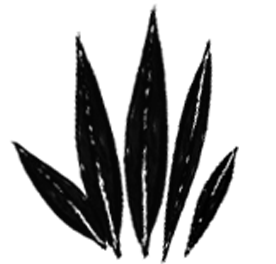
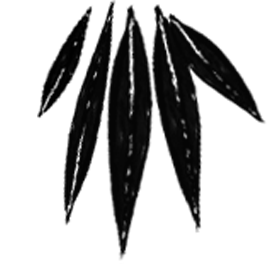
flip grass and fix culling

diff --git a/main.js b/main.js
@@ -33,38 +33,26 @@ const TreeoverlayTexture = textureLoader.load("https://raw.githubusercontent.com
 // GLTF Loader
 const gltfLoader = new GLTFLoader();
 
+// Load and add grass model
 gltfLoader.load("https://raw.githubusercontent.com/MyelinLennox/GDWebsite/refs/heads/main/Objects/Grass.gltf", (gltf) => {
     const grass = gltf.scene;
     scene.add(grass);
 
-    // Traverse the grass object and modify UVs
+    // Apply texture to the Grass object (assuming it has a mesh with materials)
     grass.traverse((child) => {
         if (child.isMesh) {
-            const geometry = child.geometry;
-
-            // Flip the Y component of the UVs
-            if (geometry.attributes.uv) {
-                const uvs = geometry.attributes.uv.array;
-                for (let i = 1; i < uvs.length; i += 2) {
-                    uvs[i] = 1 - uvs[i];  // Flip the Y UV coordinate (1 - current Y value)
-                }
-
-                geometry.attributes.uv.needsUpdate = true; // Ensure the update is reflected
-            }
-
-            // Apply the texture to the mesh
             child.material = new THREE.MeshBasicMaterial({
                 map: grassMask,
                 color: 0x649B66,
                 transparent: true,
-                depthWrite: false,
-                side: THREE.DoubleSide
+                depthWrite: false // Prevent depth writing for transparent objects
             });
             child.material.needsUpdate = true;
         }
     });
 });
 
+// Load and add tree model
 gltfLoader.load("https://raw.githubusercontent.com/MyelinLennox/GDWebsite/refs/heads/main/Objects/Tree.gltf", (gltf) => {
     const tree = gltf.scene;
     scene.add(tree);
@@ -72,17 +60,14 @@ gltfLoader.load("https://raw.githubusercontent.com/MyelinLennox/GDWebsite/refs/h
     // Apply texture to the Tree object
     tree.traverse((child) => {
         if (child.isMesh) {
-            child.material = new THREE.MeshStandardMaterial({
-                map: treeTexture,
-                transparent: true,
-                depthWrite: false, // Prevent clipping of transparent areas
-                side: THREE.DoubleSide // Ensure it's visible on both sides
-            });
+            child.material.map = treeTexture;
+            child.material.depthWrite = true;  // Enable depth writing for opaque objects
             child.material.needsUpdate = true;
         }
     });
 });
 
+// Load and add leaves model
 gltfLoader.load("https://raw.githubusercontent.com/MyelinLennox/GDWebsite/refs/heads/main/Objects/Leaves.gltf", (gltf) => {
     const leaves = gltf.scene;
     scene.add(leaves);
@@ -90,37 +75,55 @@ gltfLoader.load("https://raw.githubusercontent.com/MyelinLennox/GDWebsite/refs/h
     // Apply texture to the Leaves object
     leaves.traverse((child) => {
         if (child.isMesh) {
-            child.material = new THREE.MeshStandardMaterial({
+            child.material = new THREE.MeshBasicMaterial({
                 map: leavesMask,
                 color: 0x649B66,
                 transparent: true,
-                depthWrite: false, // Prevent clipping of transparent areas
-                side: THREE.DoubleSide // Ensure it's visible on both sides
+                depthWrite: false // Prevent depth writing for transparent objects
             });
             child.material.needsUpdate = true;
         }
     });
 });
 
-
-// Ambient and Directional Light
+// Add light to the scene
 const light = new THREE.AmbientLight(0x404040); // soft white light
 scene.add(light);
 
-const directionalLight = new THREE.DirectionalLight(0xffffff, 1);
-directionalLight.position.set(10, 10, 10).normalize();
-scene.add(directionalLight);
+// Separate opaque and transparent objects
+const opaqueObjects = [];
+const transparentObjects = [];
 
-// Animation Loop
+scene.traverse((child) => {
+    if (child.isMesh) {
+        if (child.material.transparent) {
+            transparentObjects.push(child);
+        } else {
+            opaqueObjects.push(child);
+        }
+    }
+});
+
+// Sort transparent objects by their distance from the camera (back-to-front)
+transparentObjects.sort((a, b) => {
+    const distanceA = camera.position.distanceTo(a.position);
+    const distanceB = camera.position.distanceTo(b.position);
+    return distanceB - distanceA;  // Sort in descending order (farthest to nearest)
+});
+
+// Animation loop
 function animate() {
+    // First, render all opaque objects
+    opaqueObjects.forEach((obj) => {
+        obj.renderOrder = 0;  // Ensure opaque objects render first
+    });
+
+    // Then, render all transparent objects
+    transparentObjects.forEach((obj) => {
+        obj.renderOrder = 1;  // Ensure transparent objects render after opaque objects
+    });
+
     controls.update();
     renderer.render(scene, camera);
 }
 renderer.setAnimationLoop(animate);
-
-// Window resize handling
-window.addEventListener('resize', () => {
-    camera.aspect = window.innerWidth / window.innerHeight;
-    camera.updateProjectionMatrix();
-    renderer.setSize(window.innerWidth, window.innerHeight);
-});
